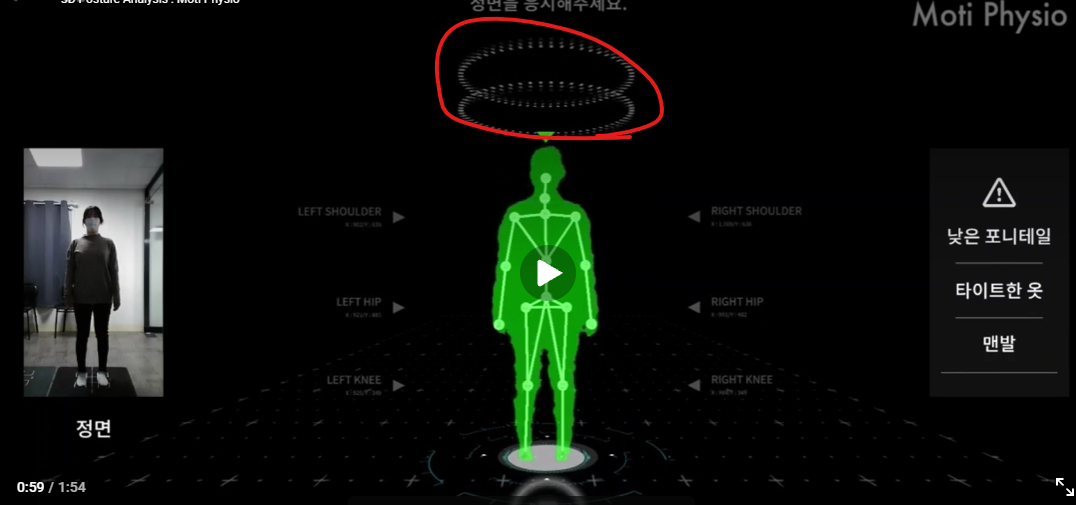
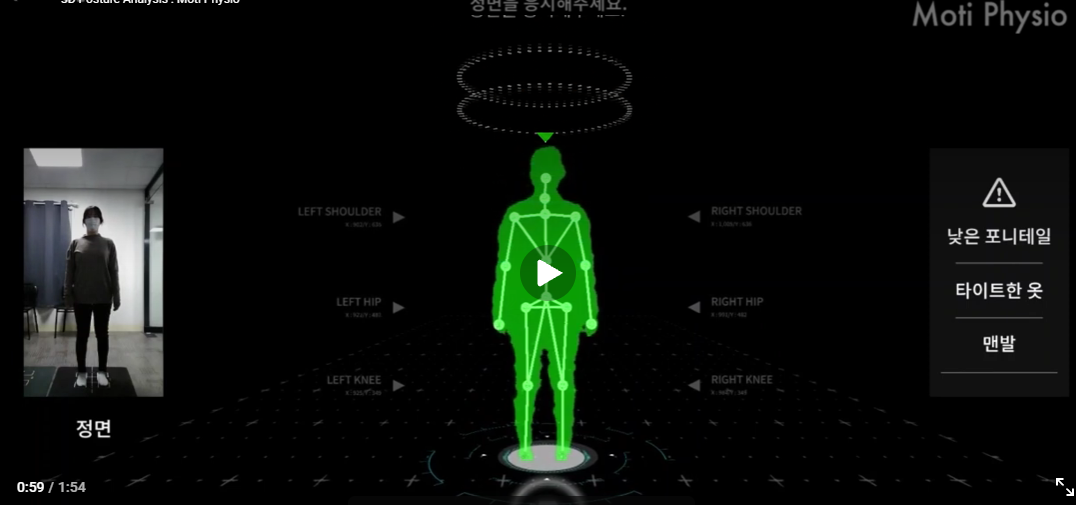
Expose red posture mat and clean front capture annotation

Changed region(s): [[0.3987, 0.0297, 0.6441, 0.297]]

diff --git a/index.html b/index.html
@@ -6,7 +6,7 @@
   function gtag(){dataLayer.push(arguments);}
   gtag('js', new Date());
   gtag('config', 'G-6E8H0DJ413');
-</script><meta charset="utf-8"><meta name="viewport" content="width=device-width,initial-scale=1,viewport-fit=cover"><meta name="theme-color" content="#2c6555"><meta name="description" content="캐릭터와 함께 산책하는 가상의 근로자건강센터. 숨 고르기, 편지, 검진 상담 준비, 일터 찾기와 퀴즈를 체험하세요."><title>3D 건강정원 | 대전근로자건강센터 안내</title><link rel="stylesheet" href="play.css"><link rel="stylesheet" href="world.css?v=realism-2"><link rel="stylesheet" href="room-layout.css?v=panel-2"><link rel="stylesheet" href="walk-view.css"><link rel="stylesheet" href="reception.css?v=return-1"><link rel="stylesheet" href="waiting-intake.css?v=intake-1"><link rel="stylesheet" href="mobile-view.css?v=mobile-3"><link rel="stylesheet" href="cardio-scene.css?v=speech-7"><link rel="stylesheet" href="education.css?v=education-1"><link rel="stylesheet" href="posture.css?v=photos-1"><link rel="stylesheet" href="analytics.css?v=analytics-1"><script src="vendor/easystar.js" defer></script><script src="vendor/lucide.js" defer></script><script src="play.js" defer></script><script src="activities.js" defer></script><script src="counsel-rooms.js" defer></script><script src="center-facilities.js?v=muscle-devices-1" defer></script><script src="room-talk.js?v=inbody-flow-1" defer></script><script type="module" src="muscle-talk.js?v=photos-1"></script><script type="module" src="reception.js?v=return-1"></script><script type="module" src="waiting-intake.js?v=return-1"></script><script type="module" src="cardio-talk.js?v=speech-7"></script><script type="module" src="world.js?v=posture-adams-1"></script><script type="module" src="presence.js?v=multiplayer-1"></script><script type="module" src="mobile-view.js?v=mobile-3"></script><script type="module" src="education-talk.js?v=education-1"></script><script type="module" src="analytics.js?v=analytics-1"></script></head><body>
+</script><meta charset="utf-8"><meta name="viewport" content="width=device-width,initial-scale=1,viewport-fit=cover"><meta name="theme-color" content="#2c6555"><meta name="description" content="캐릭터와 함께 산책하는 가상의 근로자건강센터. 숨 고르기, 편지, 검진 상담 준비, 일터 찾기와 퀴즈를 체험하세요."><title>3D 건강정원 | 대전근로자건강센터 안내</title><link rel="stylesheet" href="play.css"><link rel="stylesheet" href="world.css?v=realism-2"><link rel="stylesheet" href="room-layout.css?v=panel-2"><link rel="stylesheet" href="walk-view.css"><link rel="stylesheet" href="reception.css?v=return-1"><link rel="stylesheet" href="waiting-intake.css?v=intake-1"><link rel="stylesheet" href="mobile-view.css?v=mobile-3"><link rel="stylesheet" href="cardio-scene.css?v=speech-7"><link rel="stylesheet" href="education.css?v=education-1"><link rel="stylesheet" href="posture.css?v=photos-1"><link rel="stylesheet" href="analytics.css?v=analytics-1"><script src="vendor/easystar.js" defer></script><script src="vendor/lucide.js" defer></script><script src="play.js" defer></script><script src="activities.js" defer></script><script src="counsel-rooms.js" defer></script><script src="center-facilities.js?v=muscle-devices-1" defer></script><script src="room-talk.js?v=inbody-flow-1" defer></script><script type="module" src="muscle-talk.js?v=photos-2"></script><script type="module" src="reception.js?v=return-1"></script><script type="module" src="waiting-intake.js?v=return-1"></script><script type="module" src="cardio-talk.js?v=speech-7"></script><script type="module" src="world.js?v=posture-mat-2"></script><script type="module" src="presence.js?v=multiplayer-1"></script><script type="module" src="mobile-view.js?v=mobile-3"></script><script type="module" src="education-talk.js?v=education-1"></script><script type="module" src="analytics.js?v=analytics-1"></script></head><body>
 <header><a class="brand" href="#home">건강정원<small>대전근로자건강센터 안내</small></a><nav aria-label="주 메뉴"><button class="text-btn" id="about-button">센터 소개</button><a href="#resources">신청서</a><button class="btn" data-play="desk">상담·예약 ↗</button></nav></header>
 <main id="home"><div class="wrap"><div class="welcome"><div><span class="eyebrow">일하는 당신의 작은 쉼표</span><h1>센터에서 시작하는 건강 산책.</h1><p>대전근로자건강센터 · 제공해 주신 평면도 참고</p></div><a class="stamp-mini" href="#stampbook">나의 산책 도장 ↓</a></div></div>
 <section class="world-shell" aria-label="캐릭터로 둘러보는 건강정원"><div id="world" class="world"></div><div class="world-hud"><div><strong>건강정원 · 혼자 하는 산책</strong><p id="world-status" role="status">센터를 준비하고 있어요…</p></div></div><div class="world-tools" aria-label="화면 도구" data-expanded="false"><button class="icon-btn" id="view-follow" aria-label="캐릭터 뒤따라보기" title="캐릭터 뒤따라보기" aria-pressed="true"><i data-lucide="person-standing"></i></button><button class="icon-btn" id="view-eye" aria-label="1인칭으로 둘러보기" title="1인칭으로 둘러보기" aria-pressed="false"><i data-lucide="eye"></i></button><button class="icon-btn" id="view-map" aria-label="전체 배치 보기" title="전체 배치 보기" aria-pressed="false"><i data-lucide="map"></i></button><button class="icon-btn" id="fullscreen" aria-label="전체화면 전환" title="전체화면"><i data-lucide="expand"></i></button><button class="icon-btn" id="world-more-tools" title="화면 도구 더 보기" aria-label="화면 도구 더 보기" aria-expanded="false" aria-controls="world-extra-tools"><i data-lucide="ellipsis"></i></button><div id="world-extra-tools" class="world-extra-tools" role="group" aria-label="화면 조절"><button class="icon-btn" id="zoom-in" title="확대" aria-label="확대"><i data-lucide="zoom-in"></i></button><button class="icon-btn" id="zoom-out" title="축소" aria-label="축소"><i data-lucide="zoom-out"></i></button><button class="icon-btn" id="rotate" title="시점 회전" aria-label="시점 회전"><i data-lucide="rotate-cw"></i></button><button class="icon-btn" id="reset-view" title="기본 시점" aria-label="기본 시점"><i data-lucide="maximize"></i></button></div></div><div class="avatar-control"><span>나의 옷</span><button class="swatch" data-color="#d58a91" style="--color:#d58a91" aria-pressed="true" aria-label="분홍색 옷" title="분홍색 옷"></button><button class="swatch" data-color="#669cb4" style="--color:#669cb4" aria-pressed="false" aria-label="하늘색 옷" title="하늘색 옷"></button><button class="swatch" data-color="#c8a853" style="--color:#c8a853" aria-pressed="false" aria-label="노란색 옷" title="노란색 옷"></button><button class="icon-btn" id="sit" aria-label="앉기 또는 일어서기" aria-pressed="false" title="앉기·일어서기"><i data-lucide="armchair"></i></button></div><div class="move-pad" aria-label="캐릭터 이동"><button class="icon-btn" data-dir="up" aria-label="앞으로 이동" title="앞으로"><i data-lucide="arrow-up"></i></button><button class="icon-btn" data-dir="left" aria-label="왼쪽으로 이동" title="왼쪽"><i data-lucide="arrow-left"></i></button><button class="icon-btn" data-dir="down" aria-label="뒤로 이동" title="뒤로"><i data-lucide="arrow-down"></i></button><button class="icon-btn" data-dir="right" aria-label="오른쪽으로 이동" title="오른쪽"><i data-lucide="arrow-right"></i></button></div><div class="mobile-room-nav" role="navigation" aria-label="모바일 공간 선택"><select id="mobile-room-picker" aria-label="상담실 선택"><option value="lobby">로비 · 접수데스크</option></select><button class="icon-btn" id="mobile-reception" aria-label="접수 안내" title="접수 안내"><i data-lucide="concierge-bell"></i></button><button class="icon-btn" id="mobile-waiting" aria-label="대기실 소파로 가기" title="대기실 소파"><i data-lucide="armchair"></i></button></div><aside class="counsel-panel" id="counsel-panel" aria-label="상담실 안내" hidden><button class="room-leave" id="leave-room"><i data-lucide="arrow-left"></i>로비로 나가기</button><p class="counsel-label">가상 직원 · 선택형 상담 안내</p><h2 id="counsel-name"></h2><p id="counsel-intro"></p><p id="counsel-status" role="status"></p><div class="actions"><button class="btn light" id="take-seat">방문자 의자에 앉기</button><button class="btn" id="talk-staff" disabled>직원과 이야기하기</button></div><div id="room-facilities" class="room-facilities"></div><div class="chat-area" id="chat-area" hidden><div class="chat-bubble" id="chat-bubble" aria-live="polite"></div><div class="chat-choices" id="chat-choices"></div><div class="chat-answer" id="chat-answer" aria-live="polite"></div></div><p class="room-info">실제 직원과 연결된 대화가 아닙니다. 선택한 주제는 저장·전송되지 않습니다. 실제 상담은 센터에 전화로 문의해 주세요.</p></aside></section>

diff --git a/world.js b/world.js
@@ -7,10 +7,10 @@ import {createCholesterolScene} from './cardio-cholesterol-scene.js?v=cholestero
 import {createHbA1cScene} from './cardio-hba1c-scene.js?v=hba1c-1';
 import {createArterialScene} from './cardio-arterial-scene.js?v=arterial-3';
 import {createMuscleInBodyScene} from './muscle-inbody-scene.js?v=inbody-4';
-import {createPostureScene} from './posture-scene.js?v=adams-1';
+import {createPostureScene} from './posture-scene.js?v=mat-2';
 import {createEducationScreenMedia} from './education-screen.js?v=education-screen-1';
 import {isReceptionApproach,outsideReceptionArea,inReceptionFront} from './reception-flow.js?v=return-1';
-import {makeDevice} from './center-models.js?v=posture-mat-1';
+import {makeDevice} from './center-models.js?v=posture-mat-2';
 import {roundedGeometry,makeMaterials,makePerson,makeChair,makeTable,makePlant,makeChristmasTree} from './center-visuals.js?v=adams-1';
 import {CENTER_PLAN,planPortal,CARDIO_EQUIPMENT,WAITING_SOFA,RECEPTION_RETURN_POINT} from './center-plan.js?v=return-1';
 const host=document.querySelector('#world'),status=document.querySelector('#world-status');

diff --git a/center-models.js b/center-models.js
@@ -77,10 +77,11 @@ if(type==='inbody'){
  for(const sx of [-.65,.65]){const h=b(.07,.75,.07,sx,1.1,-.15,black);h.rotation.z=sx<0?-.65:.65}
 }
 if(type==='posture'){
- b(1.75,.035,3.2,0,.04,.45,mat('#24262b'));b(1.88,.025,.12,0,.065,-1.12,black);
- b(1.7,.018,1.48,0,.07,.95,mat('#a8212a'));
- for(const sx of [-.32,.32]){const foot=b(.2,.012,.43,sx,.083,.85,mat('#e7bdba'));foot.rotation.y=sx<0?-.07:.07}
- for(let i=0;i<7;i++){b(.5,.008,.018,0,.065,-.82+i*.42,mats.white);for(const sx of [-.72,.72])b(.12,.01,.04,sx,.07,-.82+i*.42,i%2?mats.white:mat('#c96277'))}
+ const matThickness=.04,matTop=.08+matThickness,standingZ=.35;
+ g.userData.postureStandingPoint=new THREE.Vector3(0,matTop,standingZ);
+ b(1.75,matThickness,2.24,0,matTop-matThickness/2,standingZ,mat('#c42530'));
+ const footMark=mat('#ed9a96');
+ for(const x of [-.14,.14])b(.18,.002,.28,x,matTop+.001,standingZ+.065,footMark);
  b(.22,.1,.58,0,.11,-1.28,black);c(.075,2.75,0,1.48,-1.38,black);b(.17,.18,.13,0,1.5,-1.29,metal);b(.23,.13,.16,0,2.66,-1.28,black);
  for(const y of [.52,1.02,1.52,2.02])b(.055,.08,.035,0,y,-1.285,mats.blue);
 }

diff --git a/posture-scene.js b/posture-scene.js
@@ -36,7 +36,9 @@ function bendForAdams(visitor, amount){
 export function createPostureScene(visitor,staff,device,pose,onStage,onComplete){
  const seat=new THREE.Vector3(0,.13,2),staffSeat=new THREE.Vector3(0,.13,-2);
  // Align the soles with the top of the red mat.
- const mat=new THREE.Vector3(device.position.x,.059,device.position.z+.35),staffSpot=new THREE.Vector3(device.position.x-1.45,0,device.position.z-1.25);
+ const mat=device.localToWorld(device.userData.postureStandingPoint.clone());
+ mat.y-=.02;
+ const staffSpot=new THREE.Vector3(device.position.x-1.45,0,device.position.z-1.25);
  const approach=new THREE.Vector3(device.position.x-1.8,0,device.position.z+1.65);
  const route=[new THREE.Vector3(0,0,2),new THREE.Vector3(0,0,5.65),new THREE.Vector3(4.6,0,5.65),approach,mat];
  let active=false,stage='idle',started=0,frame=0;
